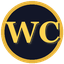
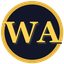
Rename the addon to WhichAlt
New folder name, .toc, code file, saved variables (WhichAltDB), frame
and popup names, a WA minimap icon, and /whichalt and /walt slash
commands (/wa is taken by WeakAuras). README and reference image
updated to match.

Changed region(s): [[0.5625, 0.3125, 0.9688, 0.6875], [0.0625, 0.3125, 0.625, 0.6875]]

diff --git a/tools/make_reference.py b/tools/make_reference.py
@@ -1,4 +1,4 @@
-"""Draws the WhichClass stat priority reference image from SpecData.lua.
+"""Draws the WhichAlt stat priority reference image from SpecData.lua.
 
 Usage: python tools/make_reference.py [SpecData.lua] [output.png]
 
@@ -64,7 +64,7 @@ H = TOP + 40 + len(rows) * ROW + groups * 10 + 70
 
 img = Image.new("RGB", (W, H), BG)
 d = ImageDraw.Draw(img)
-d.text((40, 30), "WhichClass", font=title, fill="#ffd100")
+d.text((40, 30), "WhichAlt", font=title, fill="#ffd100")
 d.text((40, 76), "Secondary stat priority by spec (best first)  \u00b7  Icy Veins, patch 12.1.5", font=reg, fill="#b8bccb")
 
 # Legend: stat colours, then what the box styles and separators mean.

diff --git a/tools/update_trinkets.py b/tools/update_trinkets.py
@@ -1,4 +1,4 @@
-"""Rebuilds WhichClass/TrinketData.lua from the Icy Veins trinket rankings.
+"""Rebuilds WhichAlt/TrinketData.lua from the Icy Veins trinket rankings.
 
 Usage: python tools/update_trinkets.py [path to TrinketData.lua]
 
@@ -114,7 +114,7 @@ for spec, cls, role in SPECS:
 header = '''local _, ns = ...
 
 --[[
-WhichClass trinket ratings, from the Icy Veins "Best in Slot Gear" pages
+WhichAlt trinket ratings, from the Icy Veins "Best in Slot Gear" pages
 (trinket rankings table for each spec). Rebuild this file with:
 
     python tools/update_trinkets.py

diff --git a/README.md b/README.md
@@ -1,13 +1,13 @@
-# <img src="images/icon.png" width="32" height="32" alt=""> WhichClass
+# <img src="images/icon.png" width="32" height="32" alt=""> WhichAlt
 
 A World of Warcraft addon that adds a short section to gear tooltips showing **which class and spec the item's secondary stats suit**. For example, a leather item with Haste and Versatility lists *Guardian Druid*, because those are its top two stats.
 
 Stat priorities and trinket ratings come from [Icy Veins](https://www.icy-veins.com/wow/) (patch 12.1.5, Midnight). You can override any spec's priority in the game.
 
 <p>
-  <img src="images/tooltip-match.jpg" alt="WhichClass tooltip section listing the specs that suit a pair of leather shoulders">
+  <img src="images/tooltip-match.jpg" alt="WhichAlt tooltip section listing the specs that suit a pair of leather shoulders">
   &nbsp;
-  <img src="images/tooltip-cloak.jpg" alt="WhichClass tooltip section listing the specs that suit a cloak">
+  <img src="images/tooltip-cloak.jpg" alt="WhichAlt tooltip section listing the specs that suit a cloak">
 </p>
 
 ## Features
@@ -24,22 +24,22 @@ Stat priorities and trinket ratings come from [Icy Veins](https://www.icy-veins.
 
 1. Download the latest code: **Code → Download ZIP**.
 2. Extract it into `World of Warcraft\_retail_\Interface\AddOns\`.
-3. Rename the folder from `WhichClass-main` to **`WhichClass`**. The game only loads it if the folder name matches the `.toc` file.
+3. Rename the folder from `WhichAlt-main` to **`WhichAlt`**. The game only loads it if the folder name matches the `.toc` file.
 4. Restart the game, or type `/reload` if it was already running.
 
-A **WC** button on the minimap shows that it has loaded.
+A **WA** button on the minimap shows that it has loaded.
 
 ## Using it
 
-Hover over any piece of gear. The WhichClass section appears at the bottom of the tooltip.
+Hover over any piece of gear. The WhichAlt section appears at the bottom of the tooltip.
 
 | Action | What it does |
 |---|---|
 | Left-click the minimap button | Opens settings |
-| Right-click the minimap button | Turns WhichClass tooltips on or off (the icon greys out while off) |
+| Right-click the minimap button | Turns WhichAlt tooltips on or off (the icon greys out while off) |
 | Drag the minimap button | Moves it around the minimap |
-| `/wc` | Opens settings |
-| `/wc minimap` | Hides or shows the minimap button |
+| `/whichalt` or `/walt` | Opens settings |
+| `/walt minimap` | Hides or shows the minimap button |
 
 ### How items are rated
 
@@ -57,10 +57,10 @@ The full list for every spec is in the reference image below.
 
 | Option | Default |
 |---|---|
-| Show WhichClass in tooltips (same as right-clicking the minimap button) | On |
+| Show WhichAlt in tooltips (same as right-clicking the minimap button) | On |
 | Show lower quality ratings ("second best" and "very low") | On |
 
-**Only show tooltip for:** WhichClass only appears on items whose binding is ticked. Off-hand items and trinkets can be switched off too.
+**Only show tooltip for:** WhichAlt only appears on items whose binding is ticked. Off-hand items and trinkets can be switched off too.
 
 | Option | Default |
 |---|---|
@@ -100,7 +100,7 @@ The data is kept in readable tables so it's easy to update when Icy Veins change
 | [`TrinketData.lua`](TrinketData.lua) | Trinket tiers per spec, matched by item ID so it works in every game language |
 | [`Data.lua`](Data.lua) | Which armor and weapon types each class can use |
 
-If a row in `SpecData.lua` or `TrinketData.lua` has a mistake, WhichClass prints the row in chat when you log in.
+If a row in `SpecData.lua` or `TrinketData.lua` has a mistake, WhichAlt prints the row in chat when you log in.
 
 ### Tools
 
@@ -124,7 +124,7 @@ python tools/make_reference.py
 
 ## Credits
 
-Stat priorities and trinket ratings: [Icy Veins](https://www.icy-veins.com/wow/) class guides. WhichClass isn't affiliated with Icy Veins or Blizzard Entertainment.
+Stat priorities and trinket ratings: [Icy Veins](https://www.icy-veins.com/wow/) class guides. WhichAlt isn't affiliated with Icy Veins or Blizzard Entertainment.
 
 ## License
 
